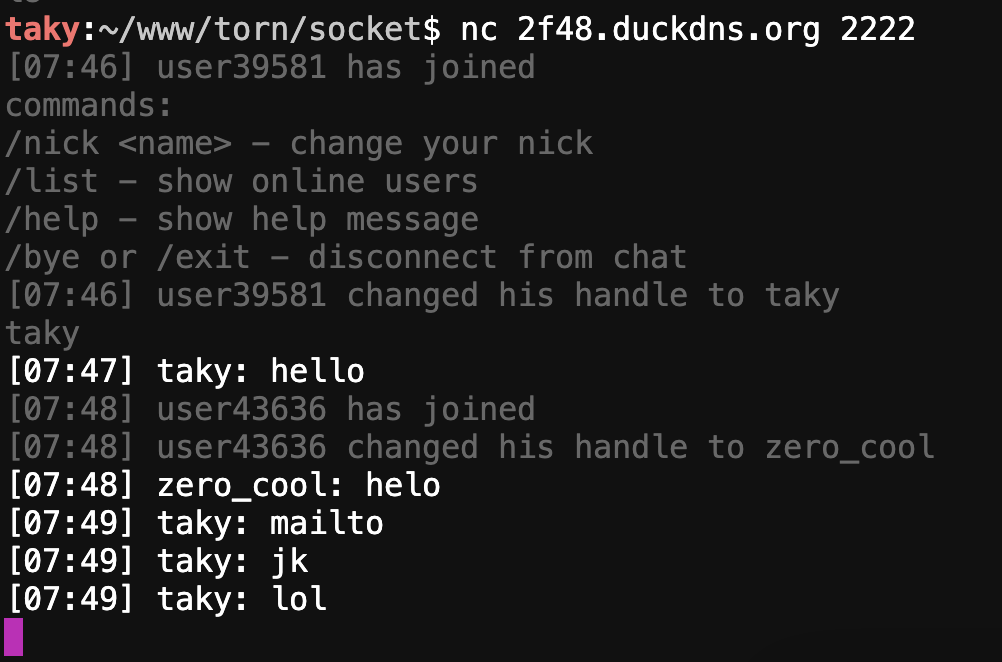
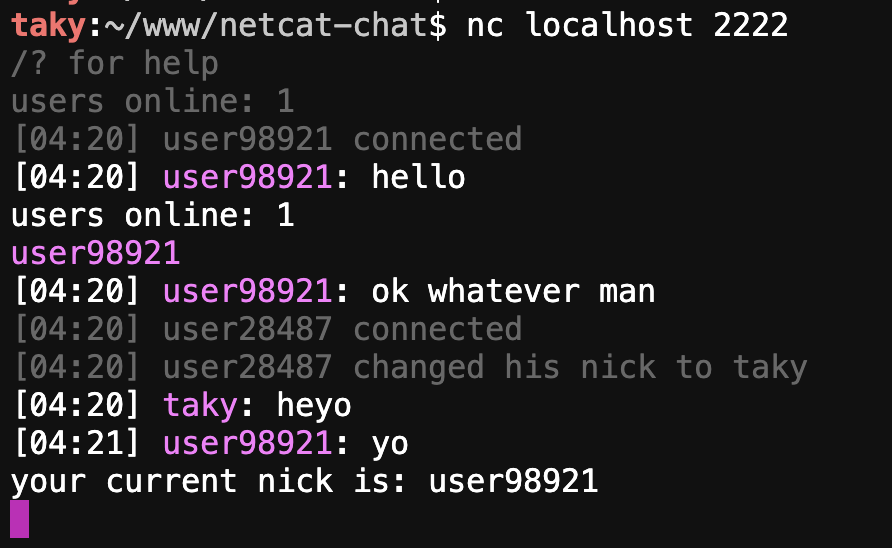
taky@1725006111

diff --git a/server.py b/server.py
@@ -3,10 +3,14 @@ import threading
 import random
 import time
 import logging
+import os
+import select
+import re
 
 # ANSI color codes
 GRAY = "\033[90m"
 WHITE = "\033[97m"
+PINK = "\033[95m"
 RESET = "\033[0m"
 ERASE_LINE = "\033[2K"
 CURSOR_UP = "\033[1A"
@@ -25,92 +29,141 @@ class Client:
         self.socket = socket
         self.handle = handle
 
+clients = []
+clients_lock = threading.Lock()
+
+def is_valid_nick(nick):
+    return re.match(r'^[a-zA-Z][a-zA-Z0-9]{0,15}$', nick) is not None
+
+def is_nick_taken(nick):
+    with clients_lock:
+        return any(client.handle.lower() == nick.lower() for client in clients)
+
 def handle_client(client_socket, addr):
     handle = generate_handle()
     client = Client(client_socket, handle)
-    clients.append(client)
-    welcome_message = format_message(f"{handle} has joined", GRAY)
+    with clients_lock:
+        clients.append(client)
+        user_count = len(clients)
+
+    # Send initial messages
+    help_reminder = f"{GRAY}/? for help{RESET}"
+    user_count_message = f"{GRAY}users online: {user_count}{RESET}"
+    welcome_message = format_message(f"{handle} connected", GRAY)
+
+    client_socket.sendall(help_reminder.encode() + b"\n")
+    client_socket.sendall(user_count_message.encode() + b"\n")
+    client_socket.sendall(welcome_message.encode() + b"\n")
+
+    # Broadcast the welcome message to other clients
     broadcast(welcome_message, client)
+
+    # Log and print to server terminal
     logging.info(welcome_message)
-    print(welcome_message)  # Print to server terminal
+    print(welcome_message.lower().rstrip('.'))
 
-    client_socket.send(welcome_message.encode() + b"\n")
-    help_message = f"{GRAY}commands:\n/nick <name> - change your nick\n/list - show online users\n/help - show help message\n/bye or /exit - disconnect from chat{RESET}"
-    client_socket.send(help_message.encode() + b"\n")
+    help_message = f"{GRAY}/nick <name> - change your nick\n/list - show online users\n/? - show help \n/bye - disconnect from chat{RESET}"
 
-    while True:
-        try:
-            message = client_socket.recv(1024).decode().strip()
-            if message is None:  # Connection closed
-                break
-            if not message:  # Empty message
-                continue
+    try:
+        while True:
+            ready = select.select([client_socket], [], [], 1)
+            if ready[0]:
+                message = client_socket.recv(1024).decode().strip()
+                if not message:
+                    break
 
-            # Erase the user's input
-            client_socket.send(f"{CURSOR_UP}{ERASE_LINE}".encode())
+                # Erase the user's input
+                client_socket.sendall(f"{CURSOR_UP}{ERASE_LINE}".encode())
 
-            if message.startswith("/nick "):
-                new_handle = message.split(" ", 1)[1]
-                change_message = format_message(f"{client.handle} changed his handle to {new_handle}", GRAY)
-                broadcast(change_message, client)
-                client.handle = new_handle
-                logging.info(change_message)
-                print(change_message)  # Print to server terminal
-                client_socket.send(change_message.encode() + b"\n")
-            elif message == "/list":
-                online_users = sorted([c.handle for c in clients])
-                user_list = f"{GRAY}" + "\n".join(online_users) + f"{RESET}"
-                client_socket.send(user_list.encode() + b"\n")
-            elif message == "/help":
-                client_socket.send(help_message.encode() + b"\n")
-            elif message in ["/bye", "/exit"]:
-                goodbye_message = format_message(f"{client.handle} has left", GRAY)
-                broadcast(goodbye_message, client)
-                logging.info(goodbye_message)
-                print(goodbye_message)  # Print to server terminal
-                break
+                if message.startswith("/nick"):
+                    parts = message.split(maxsplit=1)
+                    if len(parts) == 1:
+                        client_socket.sendall(f"your current nick is: {client.handle}\n".encode())
+                    else:
+                        new_handle = parts[1]
+                        if not is_valid_nick(new_handle):
+                            client_socket.sendall(b"invalid nick. must be 1-16 characters, start with a letter, and contain only letters and numbers\n")
+                        elif is_nick_taken(new_handle):
+                            client_socket.sendall(b"that nick is already taken\n")
+                        else:
+                            change_message = format_message(f"{client.handle} changed his nick to {new_handle}", GRAY)
+                            broadcast(change_message, client)
+                            client.handle = new_handle
+                            logging.info(change_message)
+                            print(change_message.lower().rstrip('.'))  # Print to server terminal
+                            client_socket.sendall(change_message.encode() + b"\n")
+                elif message == "/list":
+                    with clients_lock:
+                        user_count = len(clients)
+                        online_users = sorted([f"{PINK}{c.handle}{RESET}" if c == client else c.handle for c in clients])
+                    user_count_message = f"users online: {user_count}"
+                    user_list = "\n".join(online_users)
+                    client_socket.sendall(user_count_message.encode() + b"\n")
+                    client_socket.sendall(user_list.encode() + b"\n")
+                elif message == "/?":
+                    client_socket.sendall(help_message.encode() + b"\n")
+                elif message == "/bye":
+                    goodbye_message = format_message(f"{client.handle} disconnected", GRAY)
+                    broadcast(goodbye_message, client)
+                    logging.info(goodbye_message)
+                    print(goodbye_message.lower().rstrip('.'))  # Print to server terminal
+                    client_socket.sendall(f"{GRAY}l8{RESET}\n".encode())
+                    break
+                else:
+                    formatted_message = format_message(f"{PINK}{client.handle}{RESET}: {message}")
+                    broadcast(formatted_message, client)
+                    logging.info(formatted_message)
+                    print(formatted_message.lower().rstrip('.'))  # Print to server terminal
+                    client_socket.sendall(formatted_message.encode() + b"\n")
             else:
-                formatted_message = format_message(f"{client.handle}: {message}")
-                broadcast(formatted_message, client)
-                logging.info(formatted_message)
-                print(formatted_message)  # Print to server terminal
-                client_socket.send(formatted_message.encode() + b"\n")
-        except Exception as e:
-            logging.error(f"error handling client {client.handle}: {str(e)}")
-            break
-
-    clients.remove(client)
-    client_socket.close()
+                # Check if the client is still connected
+                try:
+                    client_socket.sendall(b'')
+                except:
+                    break
+    except Exception as e:
+        logging.error(f"error handling client {client.handle}: {str(e)}")
+    finally:
+        with clients_lock:
+            if client in clients:
+                clients.remove(client)
+        left_message = format_message(f"{client.handle} disconnected", GRAY)
+        broadcast(left_message, client)
+        logging.info(left_message)
+        print(left_message.lower().rstrip('.'))  # Print to server terminal
+        client_socket.close()
 
 def broadcast(message, sender):
     disconnected_clients = []
-    for client in clients:
-        if client != sender:
-            try:
-                client.socket.send(message.encode() + b"\n")
-            except Exception as e:
-                disconnected_clients.append(client)
-                logging.error(f"error broadcasting to client: {str(e)}")
+    with clients_lock:
+        for client in clients:
+            if client != sender:
+                try:
+                    client.socket.sendall(message.encode() + b"\n")
+                except Exception as e:
+                    disconnected_clients.append(client)
+                    logging.error(f"error broadcasting to client: {str(e)}")
 
-    for client in disconnected_clients:
-        clients.remove(client)
-        client.socket.close()
+        for client in disconnected_clients:
+            clients.remove(client)
+            client.socket.close()
 
 def start_server():
+    port = int(os.getenv('CHAT_PORT', 2222))
     server = socket.socket(socket.AF_INET, socket.SOCK_STREAM)
     server.setsockopt(socket.SOL_SOCKET, socket.SO_REUSEADDR, 1)
-    server.bind(('0.0.0.0', 2222))
+    server.setsockopt(socket.IPPROTO_TCP, socket.TCP_NODELAY, 1)
+    server.bind(('0.0.0.0', port))
     server.listen(5)
 
-    print("server running on :2222")
+    print(f"server running on :{port}")
     logging.info("chat server started")
 
     while True:
         client_socket, addr = server.accept()
+        client_socket.setsockopt(socket.IPPROTO_TCP, socket.TCP_NODELAY, 1)
         thread = threading.Thread(target=handle_client, args=(client_socket, addr))
         thread.start()
-
-clients = []
 
 if __name__ == "__main__":
     start_server()
